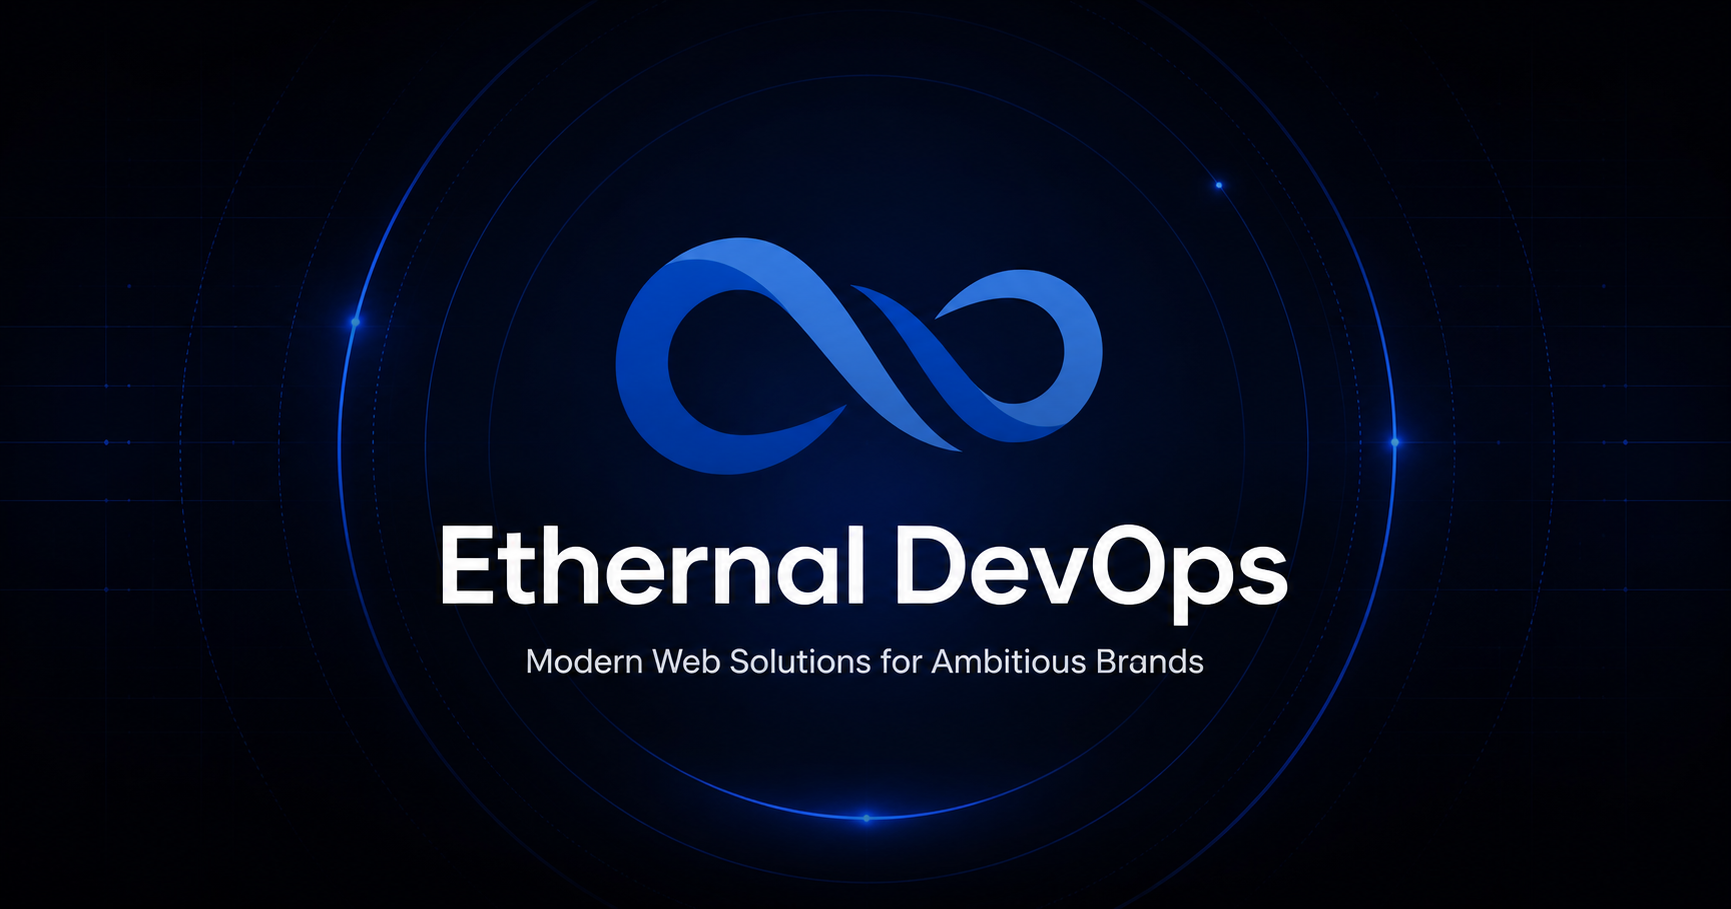
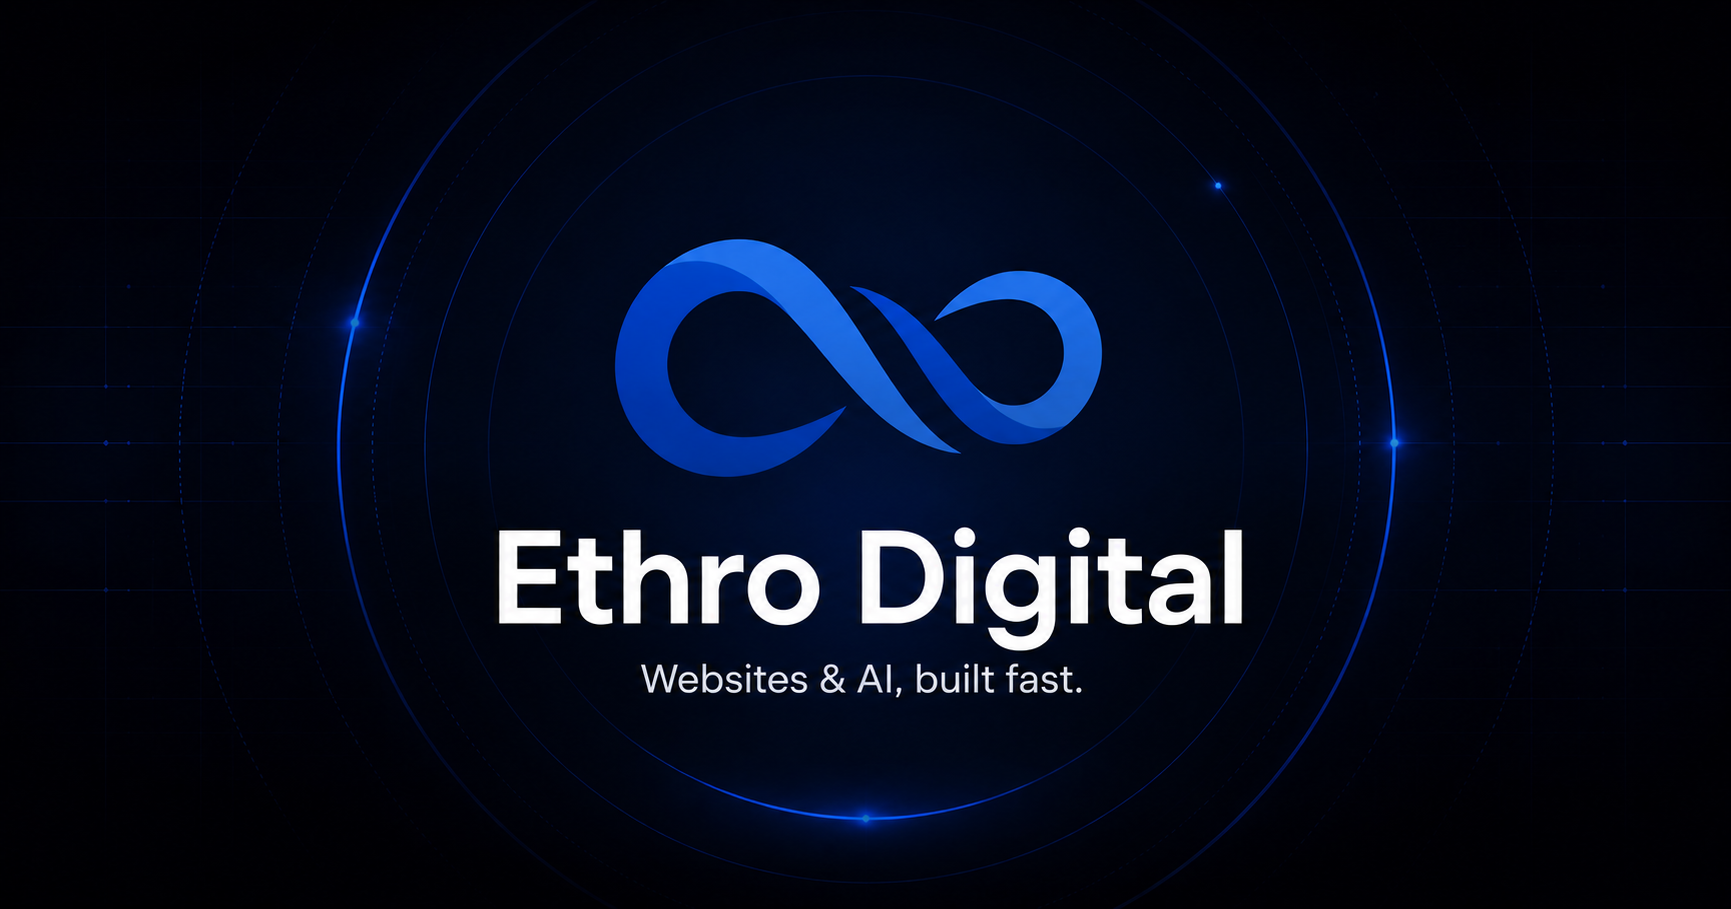
Rebrand site as Ethro Digital

diff --git a/app/page.tsx b/app/page.tsx
@@ -8,8 +8,8 @@ const copy = {
   en: {
     nav: { home: "Home", services: "Services", portfolio: "Portfolio", contact: "Contact Us", menu: "Toggle navigation", aria: "Main navigation" },
     hero: {
-      eyebrow: "Modern Web Solutions for Ambitious Brands",
-      subtitle: "Custom websites, SEO, software & design – tailored to your business.",
+      eyebrow: "Websites & AI, Built Fast",
+      subtitle: "Custom websites, automation, SEO and design — tailored to your business.",
       primary: "Get Started Now",
       pricing: "Plans & Pricing",
       tech: "Technologies we work with",
@@ -93,11 +93,11 @@ const copy = {
       quoteAccent: "We decode what your audience wants.",
       quoteMiddle: "We analyze your site's data, understand your ideal customer, and help your brand stand out.",
       quoteEnd: "The best part? We turn insights into real, actionable solutions.”",
-      byline: "Co-founder & Lead Engineer at Ethernal DevOps",
+      byline: "Co-founder & Lead Engineer at Ethro Digital",
     },
     comparison: {
       label: "COMPARISON",
-      title: "Why Ethernal DevOps Stands Out",
+      title: "Why Ethro Digital Stands Out",
       subtitle: "See how we outperform typical web service providers in speed, scale, and innovation.",
       others: "Others",
       good: ["🌍 Seamless local and global collaboration", "🚀 Fast, flexible, and custom-built solutions", "📊 Powerful dashboard control", "📈 Integrated data analytics and reporting", "🧠 Intuitive, user-first interface design"],
@@ -116,11 +116,11 @@ const copy = {
     },
     cta: {
       label: "READY TO GROW?",
-      title: "Grow Now with Ethernal Dev0ps",
+      title: "Grow Now with Ethro Digital",
       subtitle: "Launch a polished website quickly and give your customers a better way to find, trust and contact you.",
       pricing: "See Pricing",
       meeting: "Book a Meeting",
-      imageAlt: "Ethernal DevOps website interface",
+      imageAlt: "Ethro Digital website interface",
     },
     contact: {
       label: "LET'S WORK TOGETHER",
@@ -133,16 +133,17 @@ const copy = {
       reach: "Reach Out to Us",
       emailCopy: "Have questions? We're here to help.",
       phoneCopy: "Need assistance? Call us—we're at your service.",
+      emailAction: "Send us an email",
       fields: { name: "Name", fullName: "Full Name", email: "Email", yourEmail: "Your Email", subject: "Subject of Interest", product: "Website Express 24H", message: "Message", messagePlaceholder: "Tell us about your business...", submit: "Submit" },
       success: "Thank you — we'll reach out shortly.",
     },
-    footer: { aria: "Footer navigation", home: "Home", services: "Services", contact: "Contact", pricing: "Pricing", meeting: "Book a meeting", copyright: "© 2026 Ethernal DevOps — Custom web solutions built for growth." },
+    footer: { aria: "Footer navigation", home: "Home", services: "Services", contact: "Contact", pricing: "Pricing", email: "Email us", meeting: "Book a meeting", copyright: "© 2026 Ethro Digital — Websites and AI built for growth." },
   },
   es: {
     nav: { home: "Inicio", services: "Servicios", portfolio: "Portafolio", contact: "Contáctanos", menu: "Abrir navegación", aria: "Navegación principal" },
     hero: {
-      eyebrow: "Soluciones Web Modernas para Marcas Ambiciosas",
-      subtitle: "Páginas web, SEO, software y diseño adaptados a tu negocio.",
+      eyebrow: "Web e IA, Sin Esperar",
+      subtitle: "Páginas web, automatización, SEO y diseño adaptados a tu negocio.",
       primary: "Comenzar Ahora",
       pricing: "Planes y Precios",
       tech: "Tecnologías que utilizamos",
@@ -226,11 +227,11 @@ const copy = {
       quoteAccent: "Descubrimos lo que quiere tu audiencia.",
       quoteMiddle: "Analizamos los datos de tu página, entendemos a tu cliente ideal y ayudamos a que tu marca destaque.",
       quoteEnd: "¿Lo mejor? Convertimos la información en soluciones reales y prácticas.”",
-      byline: "Cofundador e Ingeniero Principal de Ethernal DevOps",
+      byline: "Cofundador e Ingeniero Principal de Ethro Digital",
     },
     comparison: {
       label: "COMPARACIÓN",
-      title: "Por Qué Ethernal DevOps Destaca",
+      title: "Por Qué Ethro Digital Destaca",
       subtitle: "Descubre cómo superamos a los proveedores tradicionales en velocidad, flexibilidad e innovación.",
       others: "Otros",
       good: ["🌍 Colaboración local y global", "🚀 Soluciones rápidas, flexibles y personalizadas", "📊 Control claro de tus resultados", "📈 Análisis de datos integrado", "🧠 Diseño intuitivo pensado para el usuario"],
@@ -249,11 +250,11 @@ const copy = {
     },
     cta: {
       label: "¿LISTO PARA CRECER?",
-      title: "Crece Ahora con Ethernal Dev0ps",
+      title: "Crece Ahora con Ethro Digital",
       subtitle: "Lanza una página profesional rápidamente y ofrece a tus clientes una mejor forma de encontrarte, confiar y contactarte.",
       pricing: "Ver Precios",
       meeting: "Agendar una Reunión",
-      imageAlt: "Interfaz web de Ethernal DevOps",
+      imageAlt: "Interfaz web de Ethro Digital",
     },
     contact: {
       label: "TRABAJEMOS JUNTOS",
@@ -266,15 +267,16 @@ const copy = {
       reach: "Contáctanos",
       emailCopy: "¿Tienes preguntas? Estamos para ayudarte.",
       phoneCopy: "¿Necesitas ayuda? Llámanos; estamos a tu servicio.",
+      emailAction: "Envíanos un correo",
       fields: { name: "Nombre", fullName: "Nombre Completo", email: "Correo", yourEmail: "Tu Correo", subject: "Servicio de Interés", product: "Website Express 24H", message: "Mensaje", messagePlaceholder: "Cuéntanos sobre tu negocio...", submit: "Enviar" },
       success: "Gracias. Nos comunicaremos contigo muy pronto.",
     },
-    footer: { aria: "Navegación del pie de página", home: "Inicio", services: "Servicios", contact: "Contacto", pricing: "Precios", meeting: "Agendar reunión", copyright: "© 2026 Ethernal DevOps — Soluciones web personalizadas para crecer." },
+    footer: { aria: "Navegación del pie de página", home: "Inicio", services: "Servicios", contact: "Contacto", pricing: "Precios", email: "Enviar correo", meeting: "Agendar reunión", copyright: "© 2026 Ethro Digital — Páginas web e IA creadas para crecer." },
   },
 } as const;
 
 function BrandMark({ small = false }: { small?: boolean }) {
-  return <img className={small ? "brand-mark brand-mark--small" : "brand-mark"} src="/assets/ethernal-mark.png" alt="Ethernal DevOps" />;
+  return <img className={small ? "brand-mark brand-mark--small" : "brand-mark"} src="/assets/ethro-mark.png" alt="Ethro Digital" />;
 }
 
 function SectionLabel({ children }: { children: React.ReactNode }) {
@@ -289,7 +291,7 @@ function Header({ language, setLanguage, menuOpen, setMenuOpen }: { language: La
   const c = copy[language].nav;
   return (
     <header className="site-header">
-      <a className="logo-link" href="#home" aria-label="Ethernal DevOps" onClick={() => setMenuOpen(false)}><BrandMark small /></a>
+      <a className="logo-link" href="#home" aria-label="Ethro Digital" onClick={() => setMenuOpen(false)}><BrandMark small /></a>
       <nav className={menuOpen ? "main-nav main-nav--open" : "main-nav"} aria-label={c.aria}>
         <a href="#home" onClick={() => setMenuOpen(false)}>{c.home}</a>
         <a href="#services" onClick={() => setMenuOpen(false)}>{c.services}</a>
@@ -315,7 +317,7 @@ export default function Home() {
   const c = copy[language];
 
   useEffect(() => {
-    const saved = window.localStorage.getItem("ethernal-language");
+    const saved = window.localStorage.getItem("ethro-language") ?? window.localStorage.getItem("ethernal-language");
     if (saved === "en" || saved === "es") setLanguage(saved);
     else if (window.navigator.language.toLowerCase().startsWith("en")) setLanguage("en");
     setLanguageReady(true);
@@ -324,7 +326,7 @@ export default function Home() {
   useEffect(() => {
     if (!languageReady) return;
     document.documentElement.lang = language;
-    window.localStorage.setItem("ethernal-language", language);
+    window.localStorage.setItem("ethro-language", language);
     setSubmitted(false);
   }, [language, languageReady]);
 
@@ -363,7 +365,7 @@ export default function Home() {
       <section className="hero section-grid" id="home">
         <div className="hero-orbit hero-orbit--one" aria-hidden="true" /><div className="hero-orbit hero-orbit--two" aria-hidden="true" />
         <div className="hero-copy" data-reveal>
-          <BrandMark /><h1>Ethernal Dev<span>0</span>ps</h1>
+          <BrandMark /><h1>Ethro <span>Digital</span></h1>
           <p className="hero-subtitle"><strong>{c.hero.eyebrow}</strong>{c.hero.subtitle}</p>
           <div className="button-row"><a className="button" href="#contact">{c.hero.primary}</a><a className="button" href="#pricing">{c.hero.pricing}</a></div>
           <div className="tech-row" aria-label={c.hero.tech}><span>Google <b>Analytics</b></span><span className="tech-react">⚛ React</span><span>♦ mongoDB</span><span className="tech-framer"><img src="/assets/framer-mark.png" alt="" /> Framer</span></div>
@@ -386,9 +388,9 @@ export default function Home() {
       <section className="data-solutions content-width">
         <article className="glass-card data-card data-card--large" data-reveal>
           <h3>{c.data.businessTitle}</h3><p>{c.data.businessCopy}</p>
-          <div className="data-visual"><strong>{c.data.growth}</strong><div className="metric-pills"><span>▥ {c.data.visits}</span><span>◷ {c.data.lastDay}</span></div><MiniChart /><div className="profile-line"><BrandMark small /> Ethernal DevOps&nbsp; 🌟</div><div className="growth-list"><b>{c.data.growth}&nbsp;⌃</b><span>☑ {c.data.score}</span><span>☑ {c.data.stats}</span><span>☑ {c.data.start}</span></div></div>
+          <div className="data-visual"><strong>{c.data.growth}</strong><div className="metric-pills"><span>▥ {c.data.visits}</span><span>◷ {c.data.lastDay}</span></div><MiniChart /><div className="profile-line"><BrandMark small /> Ethro Digital&nbsp; 🌟</div><div className="growth-list"><b>{c.data.growth}&nbsp;⌃</b><span>☑ {c.data.score}</span><span>☑ {c.data.stats}</span><span>☑ {c.data.start}</span></div></div>
         </article>
-        <article className="glass-card data-card" data-reveal><h3>{c.data.salesTitle}</h3><p>{c.data.salesCopy}</p><div className="sales-board"><span>▥ {c.data.visits}</span><span>◷ {c.data.lastDay}</span>{c.data.salesMetrics.map((item) => <span key={item}>{item}</span>)}<div className="profile-line"><BrandMark small /> Ethernal DevOps&nbsp; 🌟</div></div></article>
+        <article className="glass-card data-card" data-reveal><h3>{c.data.salesTitle}</h3><p>{c.data.salesCopy}</p><div className="sales-board"><span>▥ {c.data.visits}</span><span>◷ {c.data.lastDay}</span>{c.data.salesMetrics.map((item) => <span key={item}>{item}</span>)}<div className="profile-line"><BrandMark small /> Ethro Digital&nbsp; 🌟</div></div></article>
       </section>
 
       <section className="services section-block" id="services">
@@ -413,7 +415,7 @@ export default function Home() {
             <p className="addon-note">{c.pricing.addonNote}</p><a className="button" href="#contact">{c.pricing.cta}</a>
           </article>
         </div>
-        <div className="brand-divider">Ethernal DevOps</div>
+        <div className="brand-divider">Ethro Digital</div>
       </section>
 
       <section className="founder-note section-block"><div className="founder-inner" data-reveal><SectionLabel>{c.founder.label}</SectionLabel><blockquote>{c.founder.quoteStart} <em>{c.founder.quoteAccent}</em><br /><span>{c.founder.quoteMiddle}</span> {c.founder.quoteEnd}</blockquote><div className="founder-byline"><BrandMark small /><span>{c.founder.byline}</span></div></div></section>
@@ -429,18 +431,18 @@ export default function Home() {
         <div className="insight-strip" data-reveal><span>⌁&nbsp; {c.ai.strip[0]}</span><i /><span>♧&nbsp; {c.ai.strip[1]}</span><i /><span>☷&nbsp; {c.ai.strip[2]}</span></div>
       </section>
 
-      <section className="cta section-block"><div className="section-heading" data-reveal><SectionLabel>{c.cta.label}</SectionLabel><h2>{c.cta.title}</h2><p>{c.cta.subtitle}</p><div className="button-row"><a className="button" href="#pricing">{c.cta.pricing}</a><a className="button" href="#contact">{c.cta.meeting}</a></div></div><div className="tilted-preview" data-reveal><img src="/assets/hero-preview.png" alt={c.cta.imageAlt} /></div></section>
+      <section className="cta section-block"><div className="section-heading" data-reveal><SectionLabel>{c.cta.label}</SectionLabel><h2>{c.cta.title}</h2><p>{c.cta.subtitle}</p><div className="button-row"><a className="button" href="#pricing">{c.cta.pricing}</a><a className="button" href="#contact">{c.cta.meeting}</a></div></div><div className="tilted-preview" data-reveal><img src="/og.png" alt={c.cta.imageAlt} /></div></section>
 
       <section className="contact section-block" id="contact">
         <div className="contact-inner content-width">
-          <div className="contact-copy" data-reveal><SectionLabel>{c.contact.label}</SectionLabel><h2>{c.contact.title}</h2><a className="button" href="#pricing">{c.contact.pricing}</a><p className="support-line">✳ <strong>{c.contact.support}</strong> {c.contact.supportText}</p><p className="support-line">✳ <strong>{c.contact.schedule}</strong> {c.contact.scheduleText}</p><div className="contact-cards"><article className="glass-card"><span className="icon-box">▣</span><h3>{c.contact.reach}</h3><p>{c.contact.emailCopy}</p><a href="mailto:ethernaldevops@gmail.com">ethernaldevops@gmail.com</a></article><article className="glass-card"><span className="icon-box">●</span><h3>{c.contact.reach}</h3><p>{c.contact.phoneCopy}</p><a href="tel:+19562513072">+1 (956)-251-3072</a></article></div></div>
+          <div className="contact-copy" data-reveal><SectionLabel>{c.contact.label}</SectionLabel><h2>{c.contact.title}</h2><a className="button" href="#pricing">{c.contact.pricing}</a><p className="support-line">✳ <strong>{c.contact.support}</strong> {c.contact.supportText}</p><p className="support-line">✳ <strong>{c.contact.schedule}</strong> {c.contact.scheduleText}</p><div className="contact-cards"><article className="glass-card"><span className="icon-box">▣</span><h3>{c.contact.reach}</h3><p>{c.contact.emailCopy}</p><a href="mailto:ethernaldevops@gmail.com">{c.contact.emailAction}</a></article><article className="glass-card"><span className="icon-box">●</span><h3>{c.contact.reach}</h3><p>{c.contact.phoneCopy}</p><a href="tel:+19562513072">+1 (956)-251-3072</a></article></div></div>
           <form className="contact-form glass-card" onSubmit={submitForm} data-reveal>
             <label>{c.contact.fields.name}<input name="name" placeholder={c.contact.fields.fullName} required /></label><label>{c.contact.fields.email}<input name="email" type="email" placeholder={c.contact.fields.yourEmail} required /></label><label>{c.contact.fields.subject}<input name="subject" placeholder={c.contact.fields.product} required /></label><label>{c.contact.fields.message}<textarea name="message" placeholder={c.contact.fields.messagePlaceholder} rows={4} required /></label><button className="button" type="submit">{c.contact.fields.submit}</button><p className={submitted ? "form-success form-success--visible" : "form-success"} role="status">{c.contact.success}</p>
           </form>
         </div>
       </section>
 
-      <footer className="site-footer"><div className="footer-top content-width"><BrandMark small /><nav aria-label={c.footer.aria}><a href="#home">{c.footer.home}</a><a href="#services">{c.footer.services}</a><a href="#contact">{c.footer.contact}</a><a href="#pricing">{c.footer.pricing}</a></nav><a href="mailto:ethernaldevops@gmail.com">ethernaldevops@gmail.com</a><a className="button button--small" href="#contact">{c.footer.meeting}</a></div><div className="footer-bottom content-width"><a href="https://www.instagram.com/ethernal_devops/" target="_blank" rel="noreferrer" aria-label="Instagram">◎</a><p>{c.footer.copyright}</p></div></footer>
+      <footer className="site-footer"><div className="footer-top content-width"><BrandMark small /><nav aria-label={c.footer.aria}><a href="#home">{c.footer.home}</a><a href="#services">{c.footer.services}</a><a href="#contact">{c.footer.contact}</a><a href="#pricing">{c.footer.pricing}</a></nav><a href="mailto:ethernaldevops@gmail.com">{c.footer.email}</a><a className="button button--small" href="#contact">{c.footer.meeting}</a></div><div className="footer-bottom content-width"><a href="https://www.instagram.com/ethernal_devops/" target="_blank" rel="noreferrer" aria-label="Instagram">◎</a><p>{c.footer.copyright}</p></div></footer>
     </main>
   );
 }

diff --git a/app/layout.tsx b/app/layout.tsx
@@ -9,22 +9,22 @@ export async function generateMetadata(): Promise<Metadata> {
   const origin = `${protocol}://${host}`;
 
   return {
-    title: "Ethernal DevOps — Modern Web Solutions",
-    description: "Custom websites, SEO, software and design tailored to ambitious brands.",
+    title: "Ethro Digital — Websites & AI, Built Fast",
+    description: "Fast, professional websites, AI automation, SEO and digital solutions built for growing businesses.",
     icons: {
-      icon: "/assets/ethernal-mark.png",
-      shortcut: "/assets/ethernal-mark.png",
+      icon: "/assets/ethro-mark.png",
+      shortcut: "/assets/ethro-mark.png",
     },
     openGraph: {
-      title: "Ethernal DevOps",
-      description: "Modern Web Solutions for Ambitious Brands",
+      title: "Ethro Digital",
+      description: "Websites & AI, built fast.",
       type: "website",
-      images: [{ url: `${origin}/og.png`, width: 1536, height: 910, alt: "Ethernal DevOps" }],
+      images: [{ url: `${origin}/og.png`, width: 1731, height: 909, alt: "Ethro Digital" }],
     },
     twitter: {
       card: "summary_large_image",
-      title: "Ethernal DevOps",
-      description: "Modern Web Solutions for Ambitious Brands",
+      title: "Ethro Digital",
+      description: "Websites & AI, built fast.",
       images: [`${origin}/og.png`],
     },
   };
